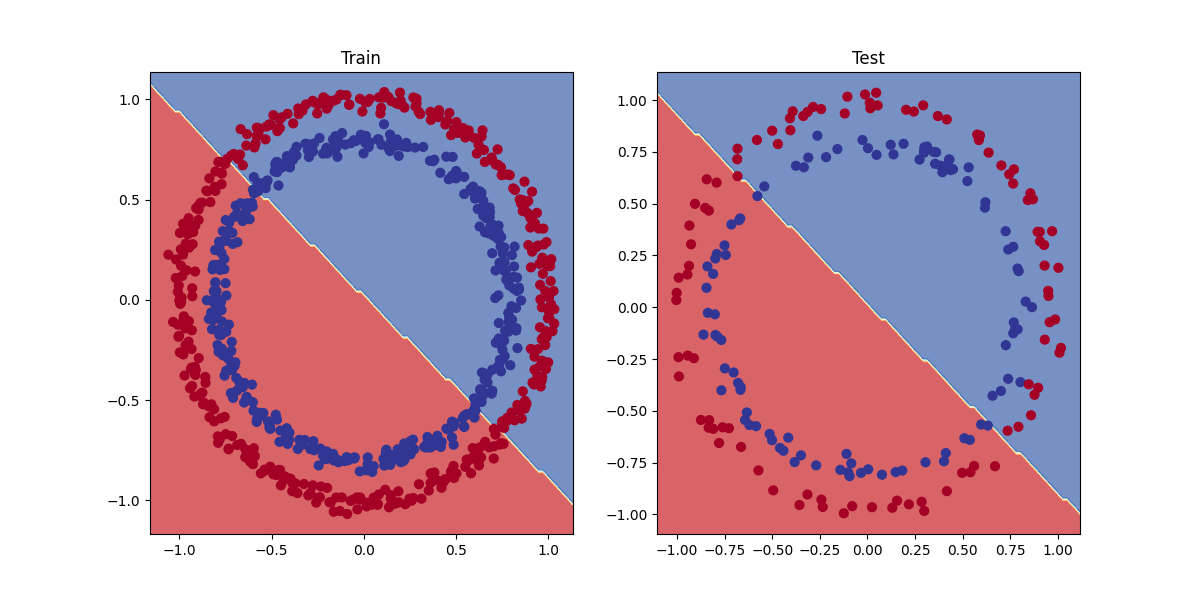
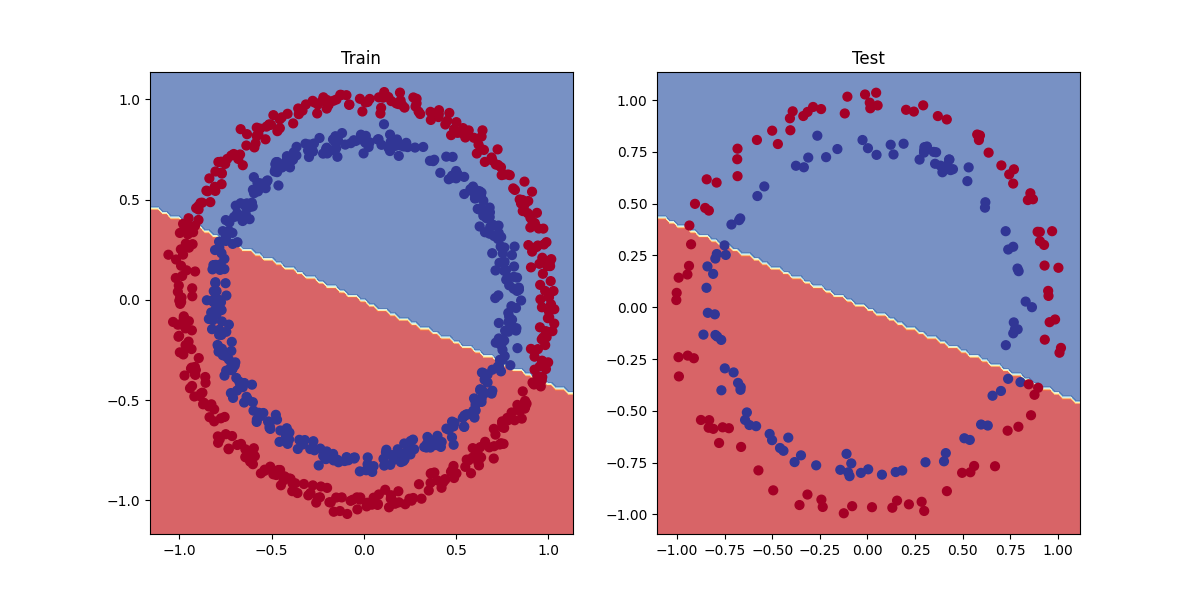
completed multi class classification

Changed region(s): [[0.5242, 0.15, 0.925, 0.84], [0.3083, 0.51, 0.4933, 0.84], [0.1233, 0.15, 0.3083, 0.51]]

diff --git a/pytorch_classification.py b/pytorch_classification.py
@@ -616,7 +616,8 @@ X_blob, y_blob = make_blobs(n_samples=1000,
 
 #2. turn data into tensors
 
-X_blob, y_blob = torch.from_numpy(X_blob).type(torch.float), torch.from_numpy(y_blob).type(torch.float)
+X_blob, y_blob = torch.from_numpy(X_blob).type(torch.float), torch.from_numpy(y_blob).type(torch.LongTensor) #y_blob needs to be LongTensor because cross entropy loss asks for it to be index
+print(X_blob, y_blob)
 
 #3. split into training and test
 X_blob_train, X_blob_test, y_blob_train, y_blob_test = train_test_split(X_blob,
@@ -631,3 +632,111 @@ plt.figure(figsize=(10, 7))
 plt.scatter(X_blob[:,0], X_blob[:,1], c= y_blob, cmap=plt.cm.RdYlBu)
 plt.savefig("clusters.png")
 
+
+#TODO: building a multiply class classification model
+
+#create device agnostic code
+
+device = "cuda" if torch.cuda.is_available() else "cpu"
+
+class BlobModel(nn.Module): 
+    def __init__(self, input_features, output_features, hidden_units=8):
+        super().__init__()
+        self.linear_layer_stack = nn.Sequential(
+            nn.Linear(in_features = input_features, out_features = hidden_units),
+            nn.ReLU(),
+            nn.Linear(in_features = hidden_units, out_features = hidden_units),
+            nn.ReLU(),
+            nn.Linear(in_features = hidden_units, out_features = output_features),
+        )
+
+    def forward(self, x):
+        return self.linear_layer_stack(x)
+
+
+model_4 = BlobModel(input_features=2, output_features = 4, hidden_units = 8).to(device)
+
+
+#create a loss function and optimizer for the multi class classification model
+
+loss_fn = nn.CrossEntropyLoss() #note to use weigth parameter if there is a unbalance dataset
+
+
+optimizer = torch.optim.Adam(params = model_4.parameters(), lr = 0.1) ## adam is generally considered better for faster convergence an ease of tunning which is ideal for large scale data and complex models, but sgd is usualy better final generalization and higher accuracy particularly in image classification models
+
+### getting prediction probabilites for a multi class pytorch model
+
+X_blob_train, y_blob_train, X_blob_test, y_blob_test = X_blob_train.to(device), y_blob_train.to(device), X_blob_test.to(device), y_blob_test.to(device)
+
+model_4.eval()
+with torch.inference_mode():
+    y_logits = model_4(X_blob_test)
+
+print(y_logits[:5])
+y_pred_probs = torch.softmax(y_logits, dim=1) # what this softmax does is that it outputs the probability that the inputted data is each one of the output features, and they togetehr sum to one, we will take the make of those probability and classify the inputs this way
+print(y_pred_probs[:5])
+
+torch.argmax(y_pred_probs[0]) #this outputs which class has the highest probability
+
+
+#TODO: convert prediciton probabilities into prediction labels
+
+y_preds = torch.argmax(y_pred_probs, dim=1)
+
+print(y_preds)
+
+## creating a training and testing loop
+
+torch.manual_seed(42)
+torch.cuda.manual_seed(42)
+
+epochs = 1000
+
+for epoch in range(epochs):
+    model_4.train()
+
+    y_logits = model_4(X_blob_train)
+    y_pred_prob = torch.softmax(y_logits, dim=1)
+    y_pred = torch.argmax(y_pred_prob, dim=1)
+
+    loss = loss_fn(y_logits, y_blob_train)
+    acc = accuracy_fn(y_true = y_blob_train,
+                      y_pred = y_pred)
+
+    optimizer.zero_grad()
+
+    loss.backward()
+
+    optimizer.step()
+
+    model_4.eval()
+    with torch.inference_mode():
+        test_logits = model_4(X_blob_test)
+        test_pred = torch.softmax(test_logits, dim=1).argmax(dim=1)
+
+        test_loss = loss_fn(test_logits, y_blob_test)
+        test_acc = accuracy_fn(y_true = y_blob_test,
+                               y_pred = test_pred)
+
+    if epoch % 100 == 0:
+        print(f"Epoch: {epoch} | Loss: {loss:.4f}, Acc: {acc:.2f}% | Test Loss: {test_loss:.4f}, Test Acc: {test_acc:.2f}% ") #the .2f just says to the specified decimal places
+
+
+
+plt.figure(figsize=(12, 6))
+plt.subplot(1, 2, 1)
+plt.title("Train")
+plot_decision_boundary(model_4, X_blob_train, y_blob_train)
+plt.subplot(1, 2, 2)
+plt.title("Test")
+plot_decision_boundary(model_4, X_blob_test, y_blob_test)
+plt.savefig("plot_decision_boundary_modelV4.png")
+
+
+##NOTE: a few more classification metrics (to evaluate our model)
+# accuracy - out of 100 samples, how many does our model get right
+# precision
+# recall
+# F1-score (combines precision and recall)
+# confusion matrix
+# classification report
